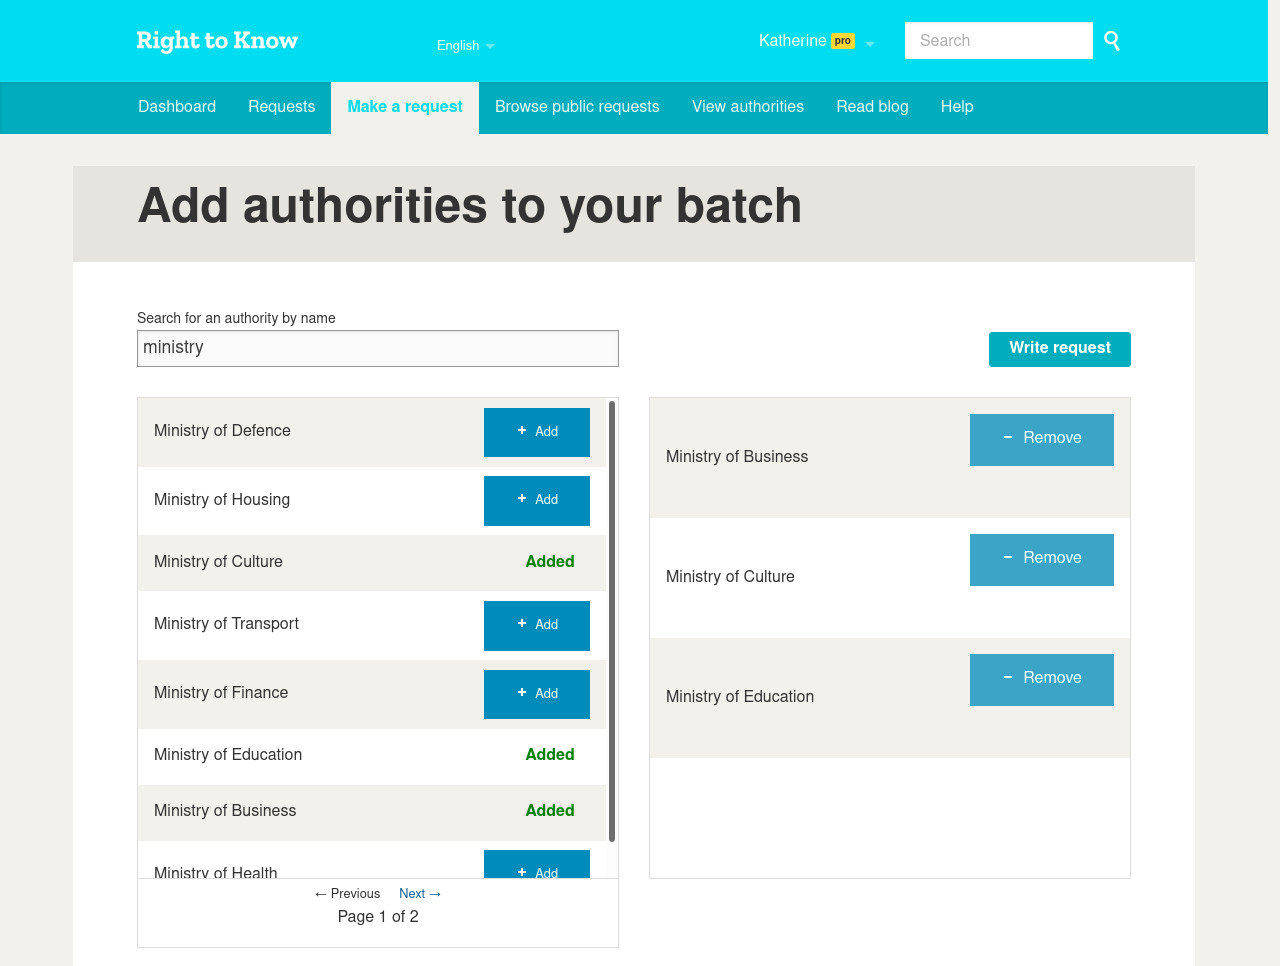
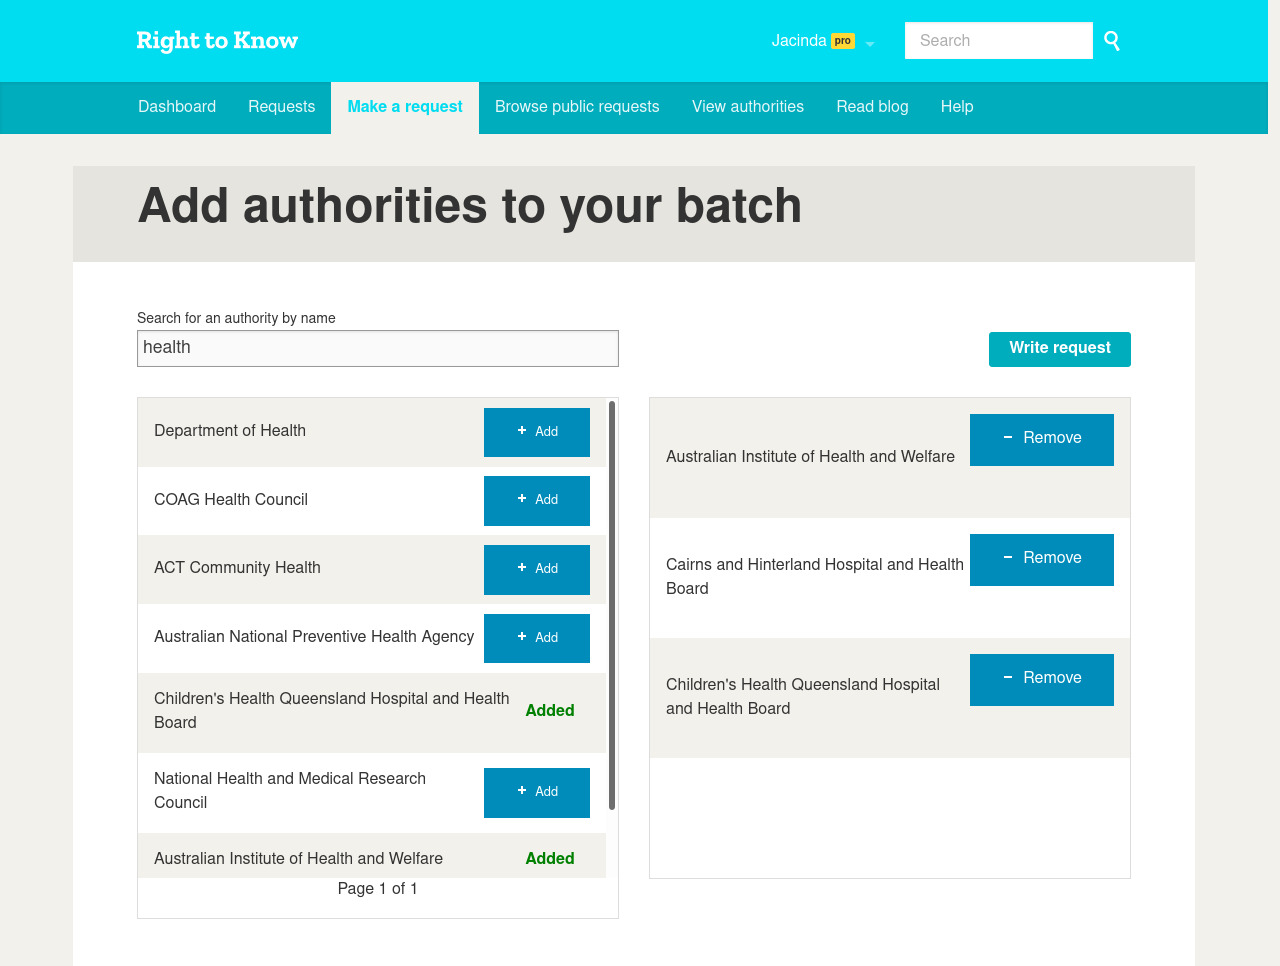
Update Pro screenshots with more "Australian" content

diff --git a/spec/features/screenshots_feature.rb b/spec/features/screenshots_feature.rb
@@ -43,15 +43,15 @@ describe 'Take Pro marketing screenshots', js: true do
   let(:pro_user) { FactoryBot.create(:pro_user, name: "Jacinda") }
   let!(:pro_user_session) { login(pro_user) }
   let!(:public_body) { FactoryBot.create(:public_body, :name => 'example') }
-  let(:kingston) { FactoryBot.create(:public_body, name: "Kingston Hospital NHS Trust") }
-  let(:kent) { FactoryBot.create(:public_body, name: "Kent Police") }
-  let(:defence) { FactoryBot.create(:public_body, name: "Ministry of Defence") }
-  let(:stirling) { FactoryBot.create(:public_body, name: "Stirling Council") }
-  let(:southwark) { FactoryBot.create(:public_body, name: "Southwark Borough Council") }
+  let(:kingston) { FactoryBot.create(:public_body, name: "Queensland Metro North Hospital and Health Service", tag_string: 'QLD') }
+  let(:kent) { FactoryBot.create(:public_body, name: "NSW Police Force", tag_string: "NSW") }
+  let(:defence) { FactoryBot.create(:public_body, name: "Department of Defence", tag_string: "federal") }
+  let(:stirling) { FactoryBot.create(:public_body, name: "Byron Shire Council", tag_string: "NSW") }
+  let(:southwark) { FactoryBot.create(:public_body, name: "Adelaide City Council", tag_string: "SA") }
 
   it "Pro screenshots" do
     using_pro_session(pro_user_session) do
-      now = Time.new(2017, 5, 16, 15, 0, 0)
+      now = Time.new(2021, 3, 16, 15, 0, 0)
 
       Timecop.freeze(now - 5.days) do
         1.times do
@@ -84,14 +84,17 @@ describe 'Take Pro marketing screenshots', js: true do
         end
       end
 
+      Timecop.freeze(now - 2.days) do
+        FactoryBot.create(:info_request, :embargoed, user: pro_user, title: "Bypass costings", public_body: stirling)
+      end
       Timecop.freeze(now - 190.minutes) do
-        FactoryBot.create(:info_request, :embargoed, user: pro_user, title: "Refugee housing provision 2016", public_body: stirling)
+        FactoryBot.create(:info_request, :embargoed, user: pro_user, title: "Refugee housing provision 2020", public_body: stirling)
       end
       Timecop.freeze(now - 130.minutes) do
         FactoryBot.create(:info_request, :embargoed, user: pro_user, title: "Meeting details", public_body: defence)
       end
       Timecop.freeze(now - 70.minutes) do
-        FactoryBot.create(:info_request, :embargoed, user: pro_user, title: "Arrest and cautions 2016", public_body: kent)
+        FactoryBot.create(:info_request, :embargoed, user: pro_user, title: "Arrests and cautions 2020", public_body: kent)
       end
       Timecop.freeze(now - 69.minutes) do
         FactoryBot.create(:info_request, :embargoed, user: pro_user, title: "Bed provision", public_body: kingston)
@@ -105,7 +108,7 @@ describe 'Take Pro marketing screenshots', js: true do
 
       # The user puts in another draft and another request
       Timecop.freeze(now - 68.minutes) do
-        FactoryBot.create(:info_request, :embargoed, user: pro_user, title: "Section 106 housing provision", public_body: southwark)
+        FactoryBot.create(:info_request, :embargoed, user: pro_user, title: "Affordable housing policies", public_body: southwark)
       end
       FactoryBot.create(:draft_info_request, user: pro_user)
 
@@ -118,14 +121,14 @@ describe 'Take Pro marketing screenshots', js: true do
   end
 
   it "Pro Batch screenshot" do
-    FactoryBot.create(:public_body, name: "Ministry of Defence")
-    FactoryBot.create(:public_body, name: "Ministry of Housing")
-    culture = FactoryBot.create(:public_body, name: "Ministry of Culture")
-    FactoryBot.create(:public_body, name: "Ministry of Transport")
-    FactoryBot.create(:public_body, name: "Ministry of Finance")
-    education = FactoryBot.create(:public_body, name: "Ministry of Education")
-    business = FactoryBot.create(:public_body, name: "Ministry of Business")
-    FactoryBot.create(:public_body, name: "Ministry of Health")
+    FactoryBot.create(:public_body, name: "Department of Health")
+    FactoryBot.create(:public_body, name: "National Health and Medical Research Council")
+    culture = FactoryBot.create(:public_body, name: "Children's Health Queensland Hospital and Health Board")
+    FactoryBot.create(:public_body, name: "COAG Health Council")
+    FactoryBot.create(:public_body, name: "ACT Community Health")
+    education = FactoryBot.create(:public_body, name: "Cairns and Hinterland Hospital and Health Board")
+    business = FactoryBot.create(:public_body, name: "Australian Institute of Health and Welfare")
+    FactoryBot.create(:public_body, name: "Australian National Preventive Health Agency")
 
     # Start a draft request
     draft = FactoryBot.create(:draft_info_request_batch, user: pro_user,
@@ -136,8 +139,8 @@ describe 'Take Pro marketing screenshots', js: true do
     using_pro_session(pro_user_session) do
       visit alaveteli_pro_batch_request_authority_searches_path(draft_id: draft)
 
-      fill_in "Search for an authority by name", with: "ministry"
-      expect(page).to have_content("Ministry of Defence")
+      fill_in "Search for an authority by name", with: "health"
+      expect(page).to have_content("Department of Health")
 
       screenshot("screenshot-batch-selection")
     end
@@ -148,13 +151,13 @@ describe 'Take Pro marketing screenshots', js: true do
       batch = FactoryBot.build(:info_request_batch, :embargoed, user: pro_user, title: "Organisation charts")
 
       batch.info_requests = [
-        FactoryBot.create(:info_request, :embargoed, :with_incoming, :refused, user: pro_user, public_body: FactoryBot.create(:public_body, name: "Ministry of Education")),
-        FactoryBot.create(:info_request, :embargoed, :with_incoming, :with_incoming, :awaiting_description, user: pro_user, public_body: FactoryBot.create(:public_body, name: "Ministry of Finance")),
-        FactoryBot.create(:info_request, :embargoed, :with_incoming, :partially_successful, user: pro_user, public_body: FactoryBot.create(:public_body, name: "Ministry of Culture")),
-        FactoryBot.create(:info_request, :embargoed, :with_incoming, :successful, user: pro_user, public_body: FactoryBot.create(:public_body, name: "Ministry of Transport")),
-        FactoryBot.create(:info_request, :embargoed, user: pro_user, public_body: FactoryBot.create(:public_body, name: "Ministry of Justice")),
-        FactoryBot.create(:info_request, :embargoed, :with_incoming, :with_incoming, :awaiting_description, user: pro_user, public_body: FactoryBot.create(:public_body, name: "Ministry of Housing")),
-        FactoryBot.create(:info_request, :embargoed, :with_internal_review_request, user: pro_user, public_body: FactoryBot.create(:public_body, name: "Ministry of Business"))
+        FactoryBot.create(:info_request, :embargoed, :with_incoming, :refused, user: pro_user, public_body: FactoryBot.create(:public_body, name: "Department of Education")),
+        FactoryBot.create(:info_request, :embargoed, :with_incoming, :with_incoming, :awaiting_description, user: pro_user, public_body: FactoryBot.create(:public_body, name: "Department of Finance")),
+        FactoryBot.create(:info_request, :embargoed, :with_incoming, :partially_successful, user: pro_user, public_body: FactoryBot.create(:public_body, name: "Department of Home Affairs")),
+        FactoryBot.create(:info_request, :embargoed, :with_incoming, :successful, user: pro_user, public_body: FactoryBot.create(:public_body, name: "Department of Infrastructure, Transport, Regional Development and Communications")),
+        FactoryBot.create(:info_request, :embargoed, user: pro_user, public_body: FactoryBot.create(:public_body, name: "Attorney-General's Department")),
+        FactoryBot.create(:info_request, :embargoed, :with_incoming, :with_incoming, :awaiting_description, user: pro_user, public_body: FactoryBot.create(:public_body, name: "Services Australia")),
+        FactoryBot.create(:info_request, :embargoed, :with_internal_review_request, user: pro_user, public_body: FactoryBot.create(:public_body, name: "Department of Industry, Science, Energy and Resources"))
       ]
       batch.info_requests.each do |request|
         request.info_request_events = [ FactoryBot.build(:sent_event, info_request: request) ]
